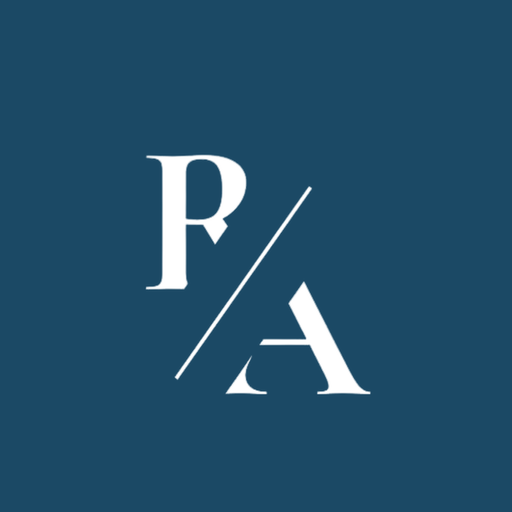
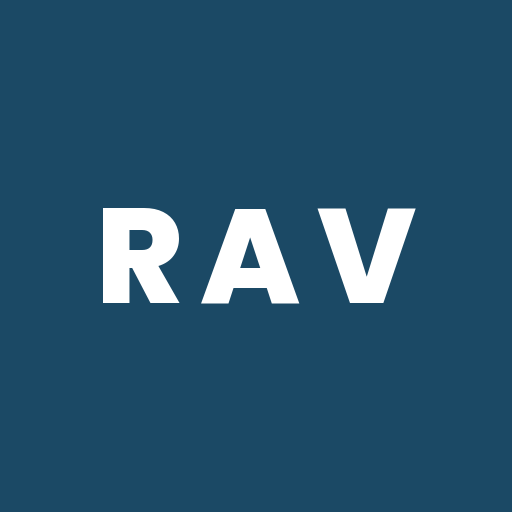
Replace the R/A monogram with a clearer RAV wordmark
The stylized R/A monogram read as just a single R at small icon
sizes, reported on a real phone home screen. Replaced it everywhere:
native app icon, Android adaptive icon, web favicon and PWA icons,
and the in-header logo mark, with RAV set in the apps own Poppins
ExtraBold, white on the brand navy, same charte graphique as before.
Logo.tsx mark ratio and the header Logo size were updated to fit the
new wider wordmark shape instead of the old near-square crop.

diff --git a/components/Logo.tsx b/components/Logo.tsx
@@ -18,8 +18,8 @@ const ASSETS: Record<'full' | 'mark', Record<'navy' | 'white', { source: any; ra
     white: { source: require('../assets/logo/logo-white.png'), ratio: 1 },
   },
   mark: {
-    navy: { source: require('../assets/logo/mark-navy.png'), ratio: 308 / 326 },
-    white: { source: require('../assets/logo/mark-white.png'), ratio: 308 / 326 },
+    navy: { source: require('../assets/logo/mark-navy.png'), ratio: 775 / 316 },
+    white: { source: require('../assets/logo/mark-white.png'), ratio: 775 / 316 },
   },
 };
 

diff --git a/components/ui.tsx b/components/ui.tsx
@@ -35,7 +35,7 @@ export function ScreenHeader({
         ) : (
           <View />
         )}
-        <Logo size={28} variant="white" kind="mark" />
+        <Logo size={74} variant="white" kind="mark" />
       </View>
       <Text style={styles.headerTitle}>{title}</Text>
       {subtitle ? <Text style={styles.headerSubtitle}>{subtitle}</Text> : null}
